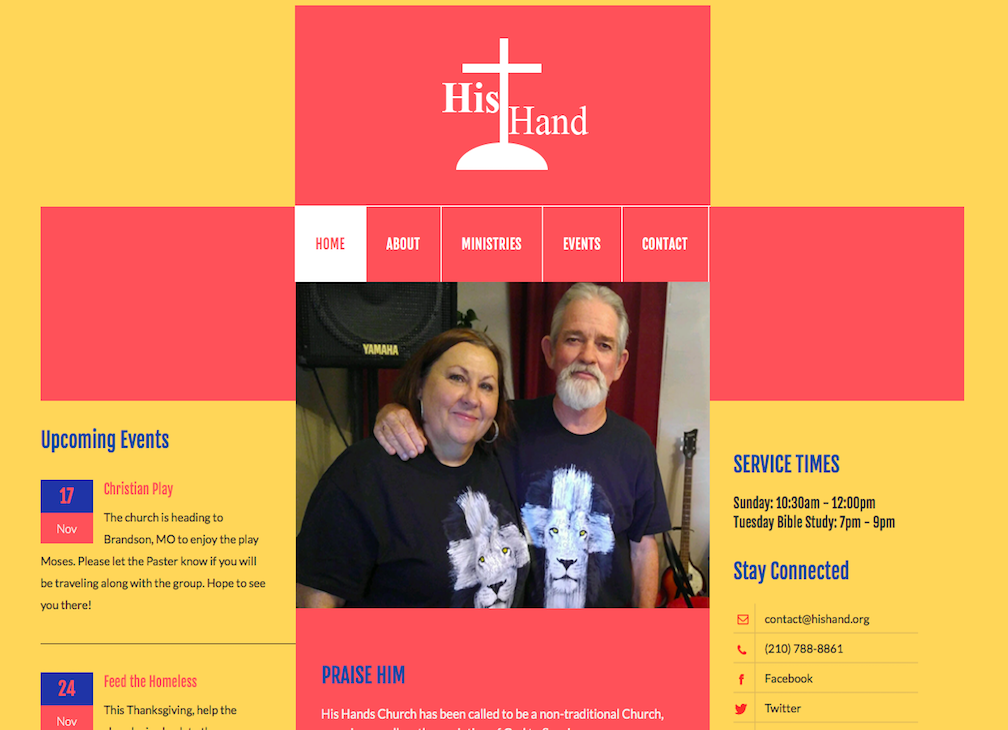
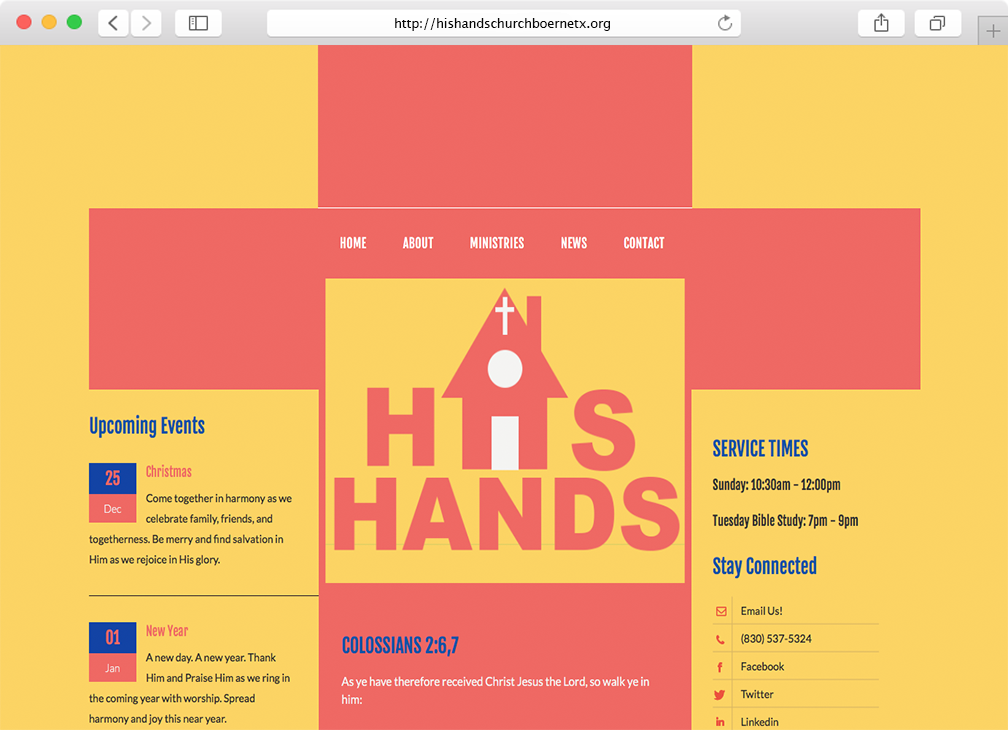
update

diff --git a/index.html b/index.html
@@ -239,7 +239,9 @@
                             <h2>His Hand Church</h2>
                             <hr class="star-primary">
                             <img src="img/portfolio/church.png" class="img-responsive img-centered" alt="hishand screenshot">
-                            <p>This is a current freelance webpage I'm designing for a church. While trying to gain experience as a web developer, I reached out to a local church I noticed didn't have a site. I am working with the pastor to gather information needed for the site as well as the message and emotion she would like this webpage to convey. I picked this color scheme and design because I wanted a warm friendly unique vibe to match the colorful personality of the pastor and her members.</p>
+                            <p>In my quest to gain experience, I reached out to His Hands Church after noticing they did not have a website for their organization nor any presence on social media. It’s a small church that is trying to bring in new people so I wanted to create a website that had the flexibility to grow with the church. I took the reins and created the church’s social media platforms so members could stay connected in this new day and age and to also make their outreach easier. I chose this color scheme and unique layout because I wanted the site to represent the warm, friendly, and radiant vibe of the colorful pastor and members. 
+                            <br><br>
+                            <a href="http://hishandschurchboernetx.org/">http://hishandschurchboernetx.org/</a></p>
 
                             
                             <button type="button" class="btn btn-default" data-dismiss="modal"><i class="fa fa-times"></i> Close</button>
